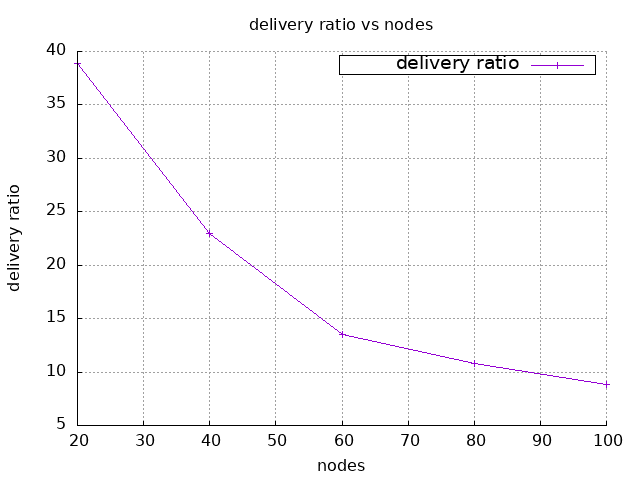
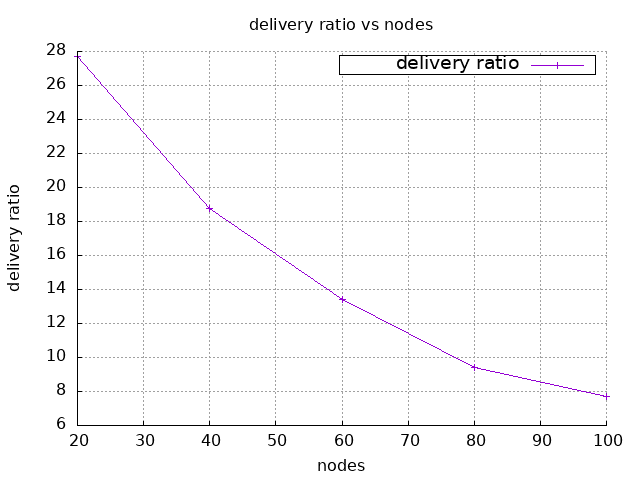
ns3-offline : solved the issue of throughput and delivery-ratio change with coverage area

diff --git a/NS3/mycodes/assignment/part_1_wireless_high_static/wireless_high_static.cc b/NS3/mycodes/assignment/part_1_wireless_high_static/wireless_high_static.cc
@@ -70,7 +70,6 @@ main(int argc, char *argv[])
 
   int tx_range = 5;
   std::string bottleNeckDelay = "2ms";
-  std::string tcpVariant = "TcpNewReno"; /* TCP variant type. */
   std::string file = "./scratch/assignment/part_1_wireless_high_static/plots/data.txt";
 
   // changes for part-1
@@ -97,15 +96,11 @@ main(int argc, char *argv[])
   coverageArea *= tx_range;
   std::string senderDataRate = std::to_string(dataRate) + "Kbps";
   std::string bottleNeckDataRate = std::to_string(dataRate / 10) + "Kbps";
+  // std::string bottleNeckDataRate = "1Mbps";
 
   NS_LOG_UNCOND("Using nodes : "<<nNodes<<" ; flows : "<<2*nFlows<<" ; packets per sec : "<<nPacketsPerSecond<<" ; coverage area : "<<coverageArea<<" ; sender data rate : "<<senderDataRate<<" ; bottleneck data rate : "<<bottleNeckDataRate);
 
   // config some default values
-  tcpVariant = std::string("ns3::") + tcpVariant;
-  // Select TCP variant
-  TypeId tcpTid;
-  NS_ABORT_MSG_UNLESS(TypeId::LookupByNameFailSafe(tcpVariant, &tcpTid), "TypeId " << tcpVariant << " not found");
-  Config::SetDefault("ns3::TcpL4Protocol::SocketType", TypeIdValue(TypeId::LookupByName(tcpVariant)));
   Config::SetDefault("ns3::TcpSocket::SegmentSize", UintegerValue(payloadSize));
   Config::SetDefault("ns3::RangePropagationLossModel::MaxRange", DoubleValue(coverageArea));
 
@@ -179,13 +174,14 @@ main(int argc, char *argv[])
 
   //setup mobility model
   MobilityHelper mobility;
-
+  double dx = 5.0, dy = 5.0;
+  int gridCols = static_cast<int>(coverageArea / dx) + 1;
   mobility.SetPositionAllocator("ns3::GridPositionAllocator",
                                 "MinX", DoubleValue(0.0),
                                 "MinY", DoubleValue(0.0),
-                                "DeltaX", DoubleValue(1.0),
-                                "DeltaY", DoubleValue(1.0),
-                                "GridWidth", UintegerValue(3),
+                                "DeltaX", DoubleValue(dx),
+                                "DeltaY", DoubleValue(dy),
+                                "GridWidth", UintegerValue(gridCols),
                                 "LayoutType", StringValue("RowFirst"));
   
   // since the task is to construct wireless high-rate "static" network
@@ -194,7 +190,6 @@ main(int argc, char *argv[])
   mobility.Install(senderWifiApNode);
   mobility.Install(receiverWifiStaNodes);
   mobility.Install(receiverWifiApNode);
-
 
   /////////////////////// INSTALL STACK ///////////////////////
   InternetStackHelper stack1;

diff --git a/1905003/1905003_1.cc b/1905003/1905003_1.cc
@@ -70,8 +70,7 @@ main(int argc, char *argv[])
 
   int tx_range = 5;
   std::string bottleNeckDelay = "2ms";
-  std::string tcpVariant = "TcpNewReno"; /* TCP variant type. */
-  std::string file = "./scratch/1905003/plots/data.txt";
+  std::string file = "./scratch/1905003/1905003_1/data.txt";
 
   // changes for part-1
   int nNodes = 20;
@@ -101,11 +100,6 @@ main(int argc, char *argv[])
   NS_LOG_UNCOND("Using nodes : "<<nNodes<<" ; flows : "<<2*nFlows<<" ; packets per sec : "<<nPacketsPerSecond<<" ; coverage area : "<<coverageArea<<" ; sender data rate : "<<senderDataRate<<" ; bottleneck data rate : "<<bottleNeckDataRate);
 
   // config some default values
-  tcpVariant = std::string("ns3::") + tcpVariant;
-  // Select TCP variant
-  TypeId tcpTid;
-  NS_ABORT_MSG_UNLESS(TypeId::LookupByNameFailSafe(tcpVariant, &tcpTid), "TypeId " << tcpVariant << " not found");
-  Config::SetDefault("ns3::TcpL4Protocol::SocketType", TypeIdValue(TypeId::LookupByName(tcpVariant)));
   Config::SetDefault("ns3::TcpSocket::SegmentSize", UintegerValue(payloadSize));
   Config::SetDefault("ns3::RangePropagationLossModel::MaxRange", DoubleValue(coverageArea));
 
@@ -179,13 +173,14 @@ main(int argc, char *argv[])
 
   //setup mobility model
   MobilityHelper mobility;
-
+  double dx = 5.0, dy = 5.0;
+  int gridCols = static_cast<int>(coverageArea / dx) + 1;
   mobility.SetPositionAllocator("ns3::GridPositionAllocator",
                                 "MinX", DoubleValue(0.0),
                                 "MinY", DoubleValue(0.0),
-                                "DeltaX", DoubleValue(1.0),
-                                "DeltaY", DoubleValue(1.0),
-                                "GridWidth", UintegerValue(3),
+                                "DeltaX", DoubleValue(dx),
+                                "DeltaY", DoubleValue(dy),
+                                "GridWidth", UintegerValue(gridCols),
                                 "LayoutType", StringValue("RowFirst"));
   
   // since the task is to construct wireless high-rate "static" network
@@ -194,7 +189,6 @@ main(int argc, char *argv[])
   mobility.Install(senderWifiApNode);
   mobility.Install(receiverWifiStaNodes);
   mobility.Install(receiverWifiApNode);
-
 
   /////////////////////// INSTALL STACK ///////////////////////
   InternetStackHelper stack1;

diff --git a/1905003/1905003_2.cc b/1905003/1905003_2.cc
@@ -67,8 +67,7 @@ main(int argc, char *argv[])
   uint32_t payloadSize = 1024;		//bytes
 
   std::string bottleNeckDelay = "2ms";
-  std::string tcpVariant = "TcpNewReno"; /* TCP variant type. */
-  std::string file = "./scratch/1905003/plots/data.txt";
+  std::string file = "./scratch/1905003/1905003_2/data.txt";
 
   // changes for part-1
   int nNodes = 20;
@@ -98,11 +97,6 @@ main(int argc, char *argv[])
                 "speed : "<<speed<<" ; sender data rate : "<<senderDataRate<<" ; bottleneck data rate : "<<bottleNeckDataRate);
 
   // config some default values
-  tcpVariant = std::string("ns3::") + tcpVariant;
-  // Select TCP variant
-  TypeId tcpTid;
-  NS_ABORT_MSG_UNLESS(TypeId::LookupByNameFailSafe(tcpVariant, &tcpTid), "TypeId " << tcpVariant << " not found");
-  Config::SetDefault("ns3::TcpL4Protocol::SocketType", TypeIdValue(TypeId::LookupByName(tcpVariant)));
   Config::SetDefault("ns3::TcpSocket::SegmentSize", UintegerValue(payloadSize));
 
   /////////////////////// SETUP NODES ///////////////////////

diff --git a/NS3/mycodes/assignment/part_2_wireless_high_mobile/wireless_high_mobile.cc b/NS3/mycodes/assignment/part_2_wireless_high_mobile/wireless_high_mobile.cc
@@ -67,7 +67,6 @@ main(int argc, char *argv[])
   uint32_t payloadSize = 1024;		//bytes
 
   std::string bottleNeckDelay = "2ms";
-  std::string tcpVariant = "TcpNewReno"; /* TCP variant type. */
   std::string file = "./scratch/assignment/part_2_wireless_high_mobile/plots/data.txt";
 
   // changes for part-1
@@ -98,11 +97,6 @@ main(int argc, char *argv[])
                 "speed : "<<speed<<" ; sender data rate : "<<senderDataRate<<" ; bottleneck data rate : "<<bottleNeckDataRate);
 
   // config some default values
-  tcpVariant = std::string("ns3::") + tcpVariant;
-  // Select TCP variant
-  TypeId tcpTid;
-  NS_ABORT_MSG_UNLESS(TypeId::LookupByNameFailSafe(tcpVariant, &tcpTid), "TypeId " << tcpVariant << " not found");
-  Config::SetDefault("ns3::TcpL4Protocol::SocketType", TypeIdValue(TypeId::LookupByName(tcpVariant)));
   Config::SetDefault("ns3::TcpSocket::SegmentSize", UintegerValue(payloadSize));
 
   /////////////////////// SETUP NODES ///////////////////////
